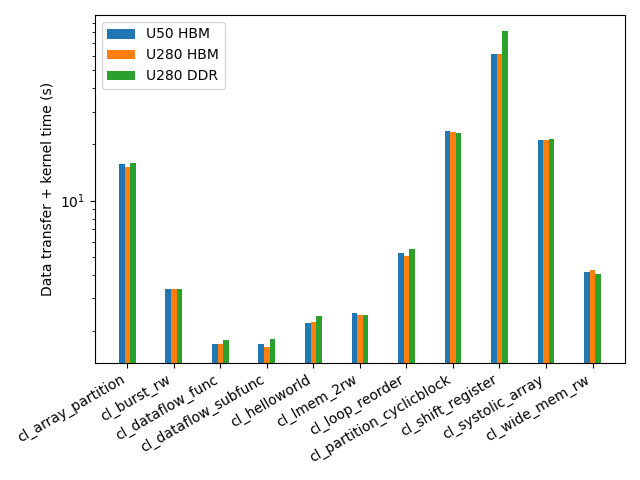
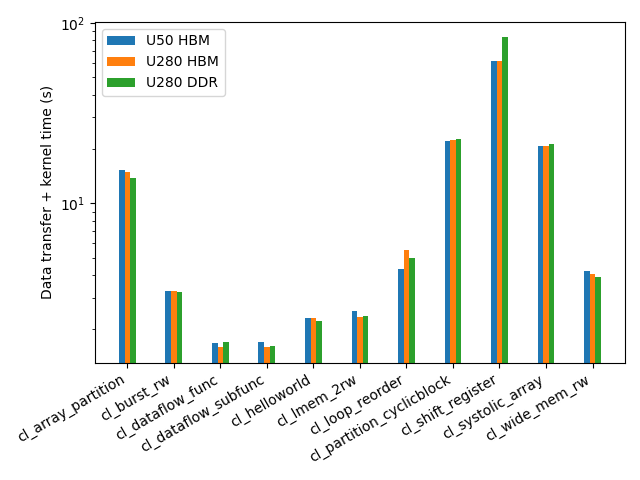
Add time measured using OpenCL profiling to data

diff --git a/performance/execution-time-widemem.py b/performance/execution-time-widemem.py
@@ -14,7 +14,7 @@ df_u280_ddr_fast = pd.read_csv("../data/u280-ddr-fast-vitis.csv", skipinitialspa
 
 # Sum up data transfer + kernel execution time
 for df in [df_u50_slow, df_u50_fast, df_u280_slow, df_u280_fast, df_u280_ddr_slow, df_u280_ddr_fast]:
-    df["transfer+kernel"] = df["data_to_fpga"] + df["kernel"] + df["data_to_host"]
+    df["transfer+kernel"] = df["data_to_fpga_cpu"] + df["kernel_cpu"] + df["data_to_host_cpu"]
 
 bar_width = 0.12
 app_names = df_u50_slow["app_name"].values

diff --git a/performance/execution-time.py b/performance/execution-time.py
@@ -14,7 +14,7 @@ df_u280_ddr_fast = pd.read_csv("../data/u280-ddr-fast-vitis.csv", skipinitialspa
 
 # Sum up data transfer + kernel execution time
 for df in [df_u50_slow, df_u50_fast, df_u280_slow, df_u280_fast, df_u280_ddr_slow, df_u280_ddr_fast]:
-    df["transfer+kernel"] = df["data_to_fpga"] + df["kernel"] + df["data_to_host"]
+    df["transfer+kernel"] = df["data_to_fpga_cpu"] + df["kernel_cpu"] + df["data_to_host_cpu"]
 
 bar_width = 0.12
 app_names = df_u50_slow["app_name"].values

diff --git a/performance/speedup.py b/performance/speedup.py
@@ -15,7 +15,7 @@ fpga_configs = ["u50_hbm", "u280_hbm", "u280_ddr"]
 
 # Sum up data transfer + kernel execution time
 for df in [df_u50_slow, df_u50_fast, df_u280_slow, df_u280_fast, df_u280_ddr_slow, df_u280_ddr_fast]:
-    df["transfer+kernel"] = df["data_to_fpga"] + df["kernel"] + df["data_to_host"]
+    df["transfer+kernel"] = df["data_to_fpga_cpu"] + df["kernel_cpu"] + df["data_to_host_cpu"]
 
 apps = df_u50_slow["app_name"].values
 num_apps = len(apps)
